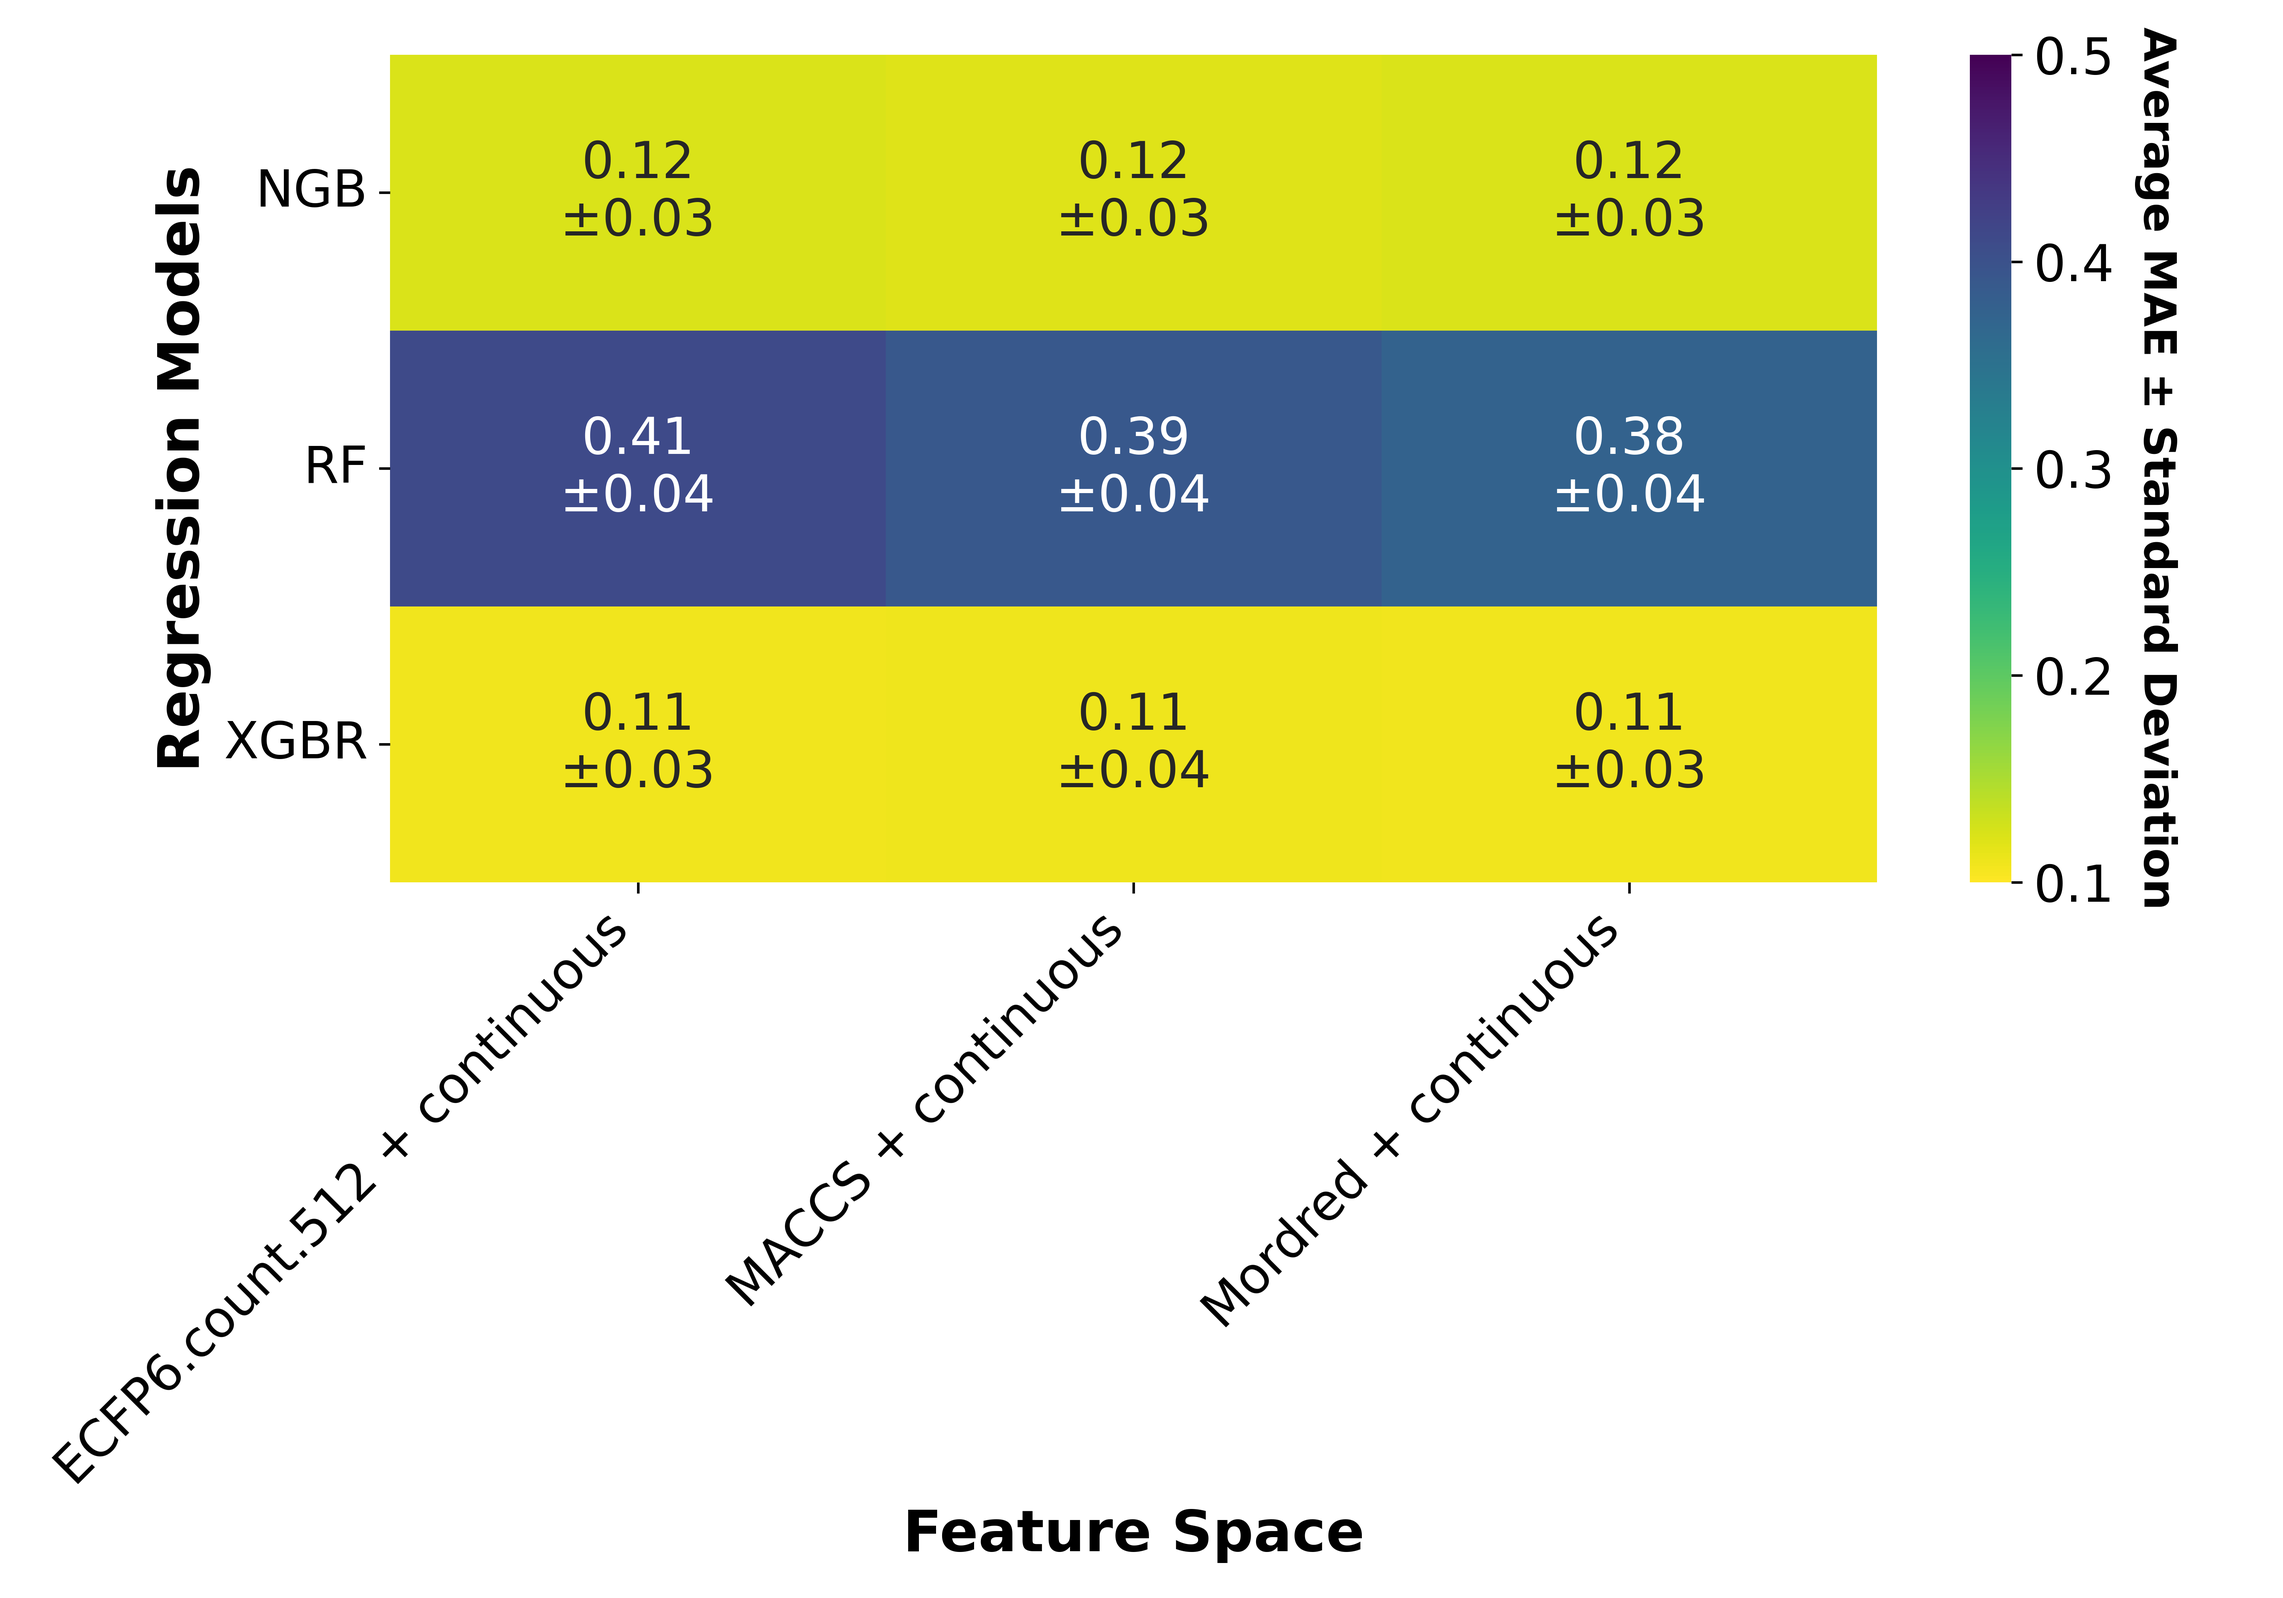
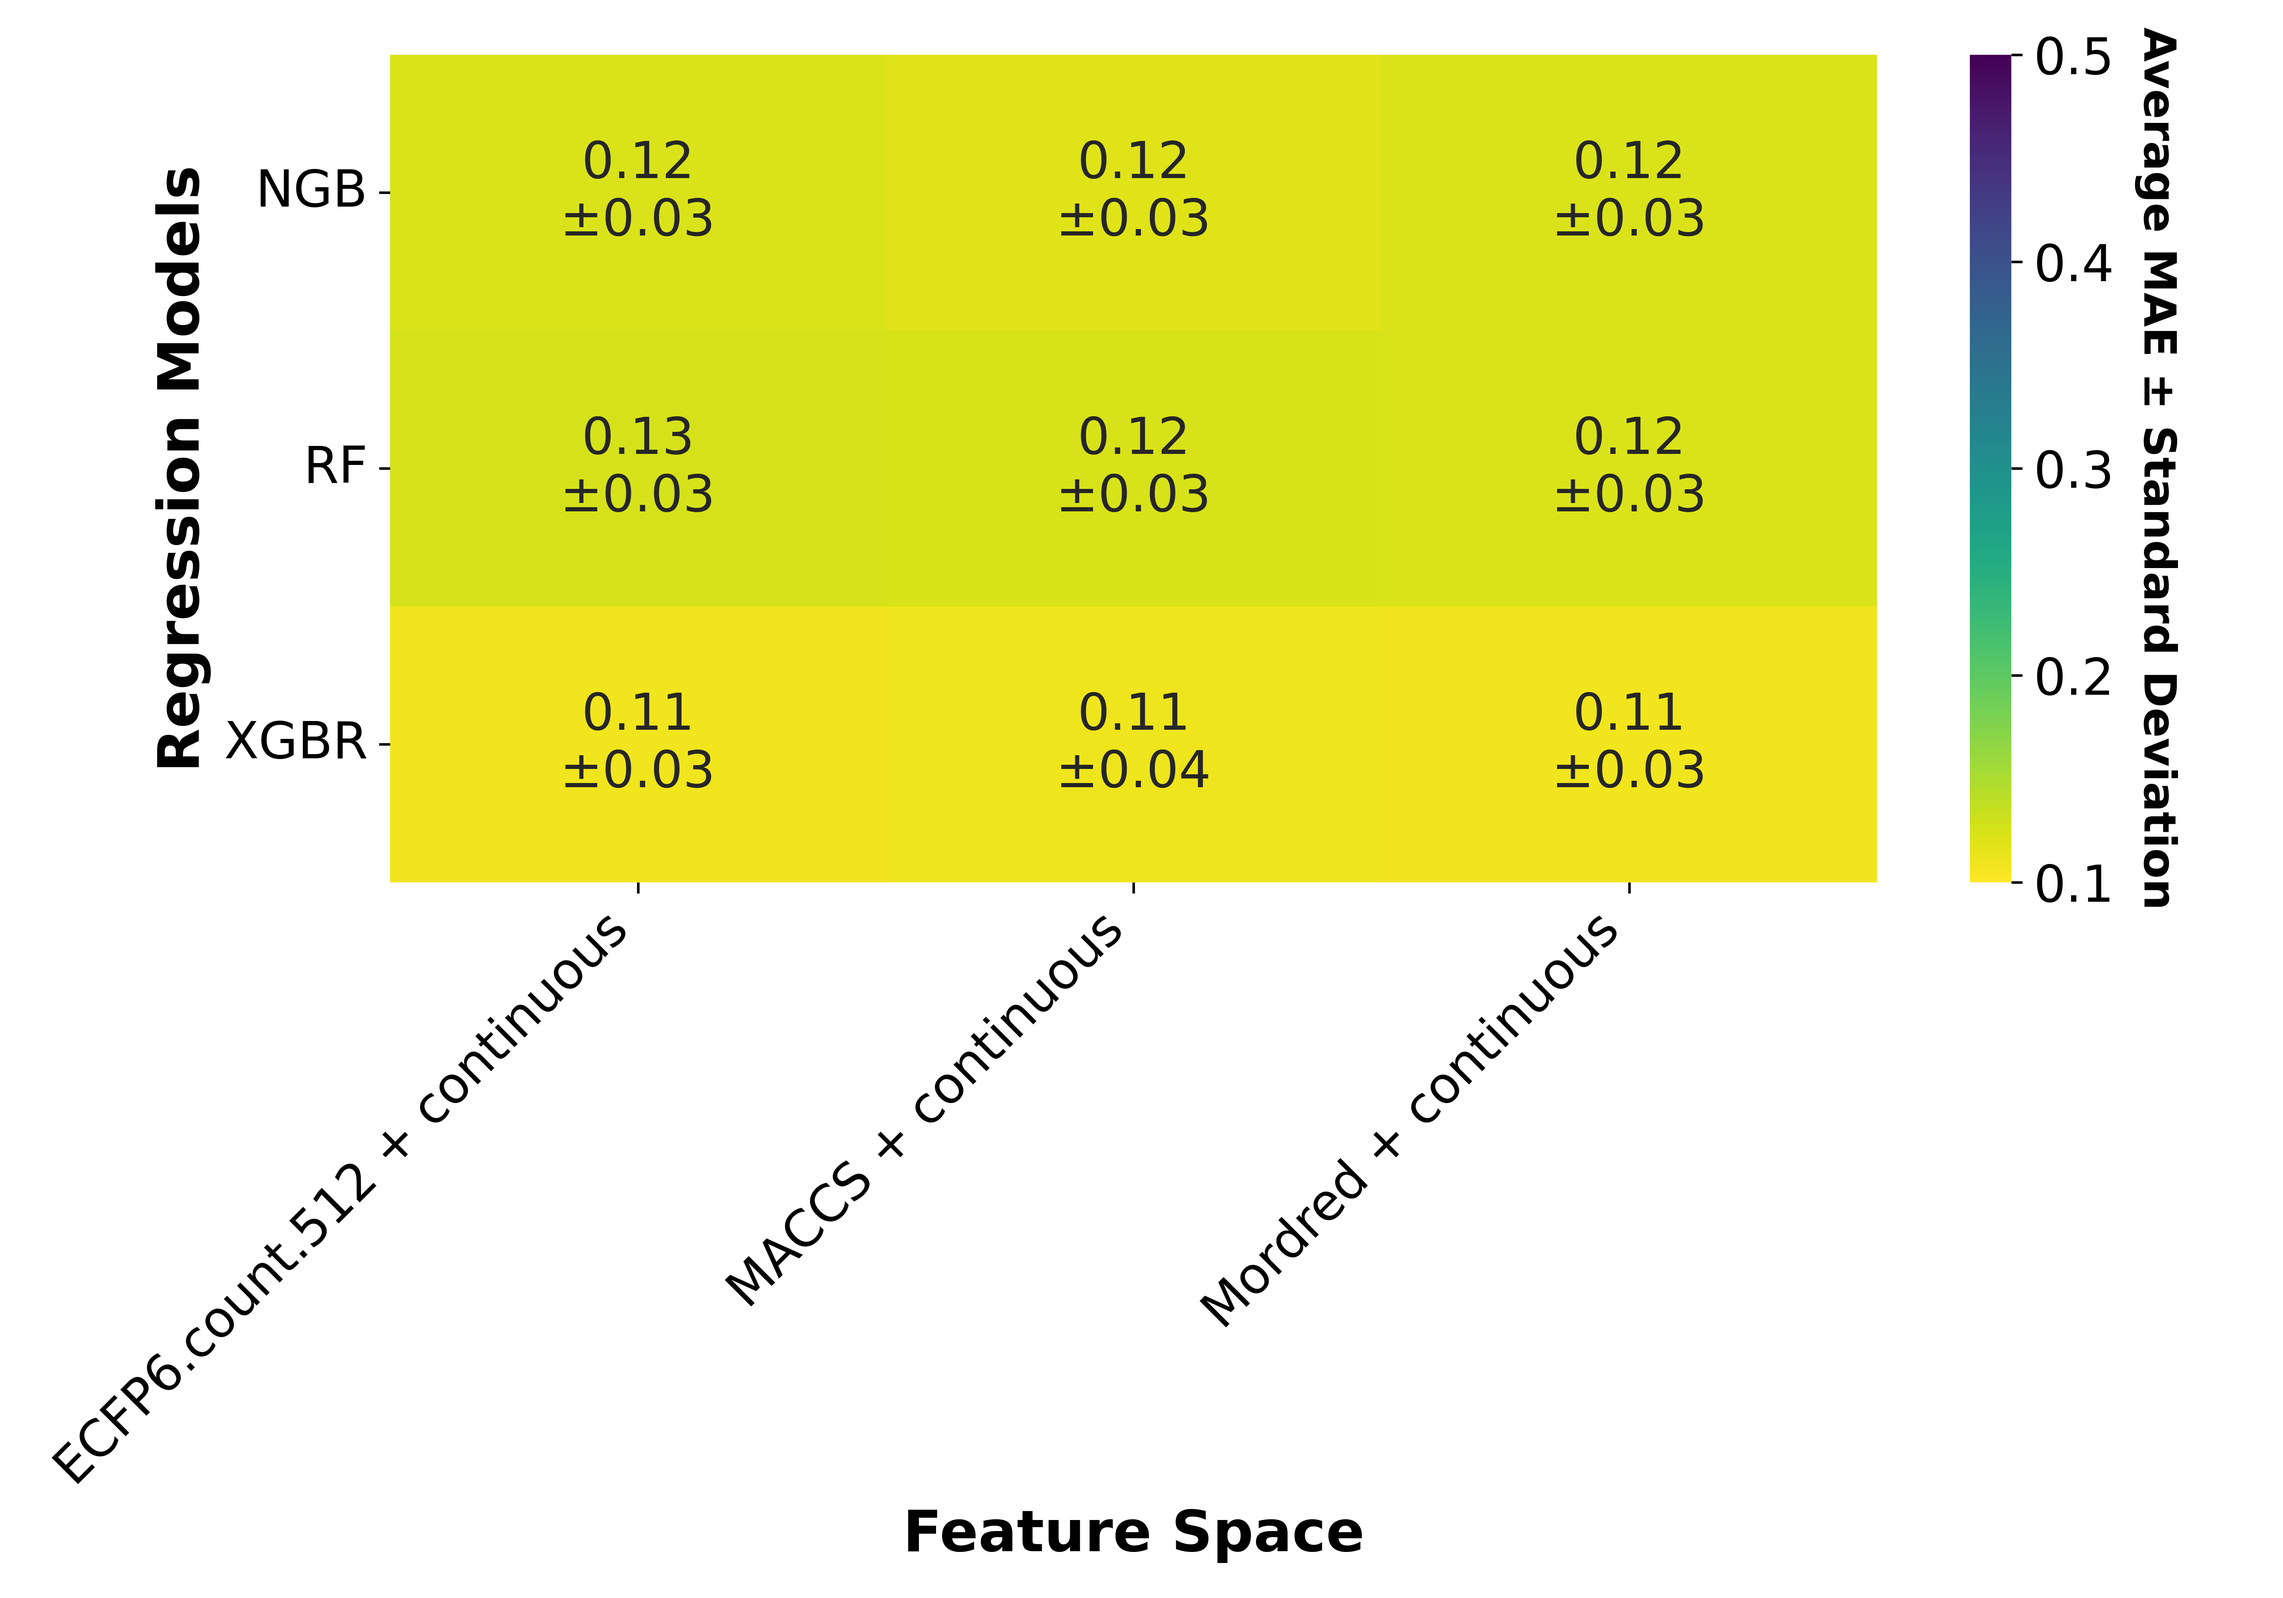
updated

Changed region(s): [[0.1558, 0.1871, 0.8415, 0.4055]]

diff --git a/code_/visualization/paper visualize_heatmap.py b/code_/visualization/paper visualize_heatmap.py
@@ -549,12 +549,12 @@ def create_structural_result(target_dir:Path,
                              regressor_model:str,
                              target:str,
                              score:str,
-                             var:str,
+                            #  var:str,
                              data_type:str,
                              transformer_type:str,
                              peak_num:int=None
                              ) -> None:
-    ave, anot, model = creat_result_df(target_dir=target_dir,score=score, var=var,data_type=data_type
+    ave, anot, model = creat_result_df(target_dir=target_dir,score=score,data_type=data_type
                                        ,regressor_model=regressor_model, transformer_type=transformer_type,
                                        peak_number=peak_num)
     
@@ -562,9 +562,21 @@ def create_structural_result(target_dir:Path,
     score_txt: str = "$R^2$" if score == "r2" else score.upper()
     reg_name = f'{regressor_model} on peak {peak_num+1}' if peak_num else regressor_model
     fname= f"selected PolymerRepresentation vs Fingerprint trained by {reg_name} search heatmap_{score} score"
+    if score == "r2":
+        vmax= .22
+        vmin= .18
+        n_cbar_tick = 4
+    elif score == "mae":
+        vmax= .5
+        vmin= 0.1
+        n_cbar_tick = 5  
+    elif score == "rmse":
+        vmax= .7
+        vmin= 0.5 
+        n_cbar_tick = 4
     _create_heatmap(root_dir=HERE,
                     score=score,
-                    var=var,
+                    # var=var,
                     avg_scores=ave,
                     annotations=anot,
                     figsize=(9, 8),
@@ -572,8 +584,8 @@ def create_structural_result(target_dir:Path,
                     x_title="Molecular Representations",
                     y_title="Polymer Unit Representation",
                     fname=fname,
-                    vmin=.55,
-                    vmax=.57
+                    vmin=vmin,
+                    vmax=vmax
                     )
 
 
@@ -622,17 +634,17 @@ def create_structural_scaler_result(target_dir:Path,
                     )
 
 #    'XGBR','RF','NGB'"GPR.matern", "GPR.rbf" "GPR"
-complex_models = ['NGB', 'XGBR', 'RF']
+complex_models = ['RF']
 
 
-# for transformer in transformer_list:
-#     for model in complex_models: 
-#         for target_folder in target_list:
-#             for i in scores_list:
+for transformer in transformer_list:
+    for model in complex_models: 
+        for target_folder in target_list:
+            for i in scores_list:
 #                 create_structural_scaler_result(target_dir=RESULTS/target_folder,regressor_model= model,target=f'{target_folder} with',
 #                                                 score=i,var='stdev',data_type='structural_scaler', transformer_type=transformer)
-                # create_structural_result(target_dir=RESULTS/target_folder,regressor_model= model,target=f'{target_folder} with',
-                #                             score=i,var='stdev',data_type='structural', transformer_type=transformer)
+                create_structural_result(target_dir=RESULTS/target_folder,regressor_model= model,target=f'{target_folder} with',
+                                            score=i,data_type='structural', transformer_type=transformer)
 
 
 
@@ -677,13 +689,13 @@ def create_scaler_result(target_dir:Path,
 # simple_models = ['MLR','DT','RF']
 
 
-for transformer in transformer_list:
-    for target_folder in target_list:
-        for i in scores_list:
+# for transformer in transformer_list:
+#     for target_folder in target_list:
+#         for i in scores_list:
 #             create_structural_scaler_result(target_dir=RESULTS/target_folder,target=f'{target_folder} with',
 #                                                 score=i,data_type='structural_scaler', transformer_type=transformer)
-            create_scaler_result(target_dir=RESULTS/target_folder,target=f'{target_folder} with',
-                                score=i,var='stdev',data_type='scaler',transformer_type=transformer)
+            # create_scaler_result(target_dir=RESULTS/target_folder,target=f'{target_folder} with',
+            #                     score=i,var='stdev',data_type='scaler',transformer_type=transformer)
             
 # selected_features: set = [
 #     # "solvent_properties + solvent_HSPs",
